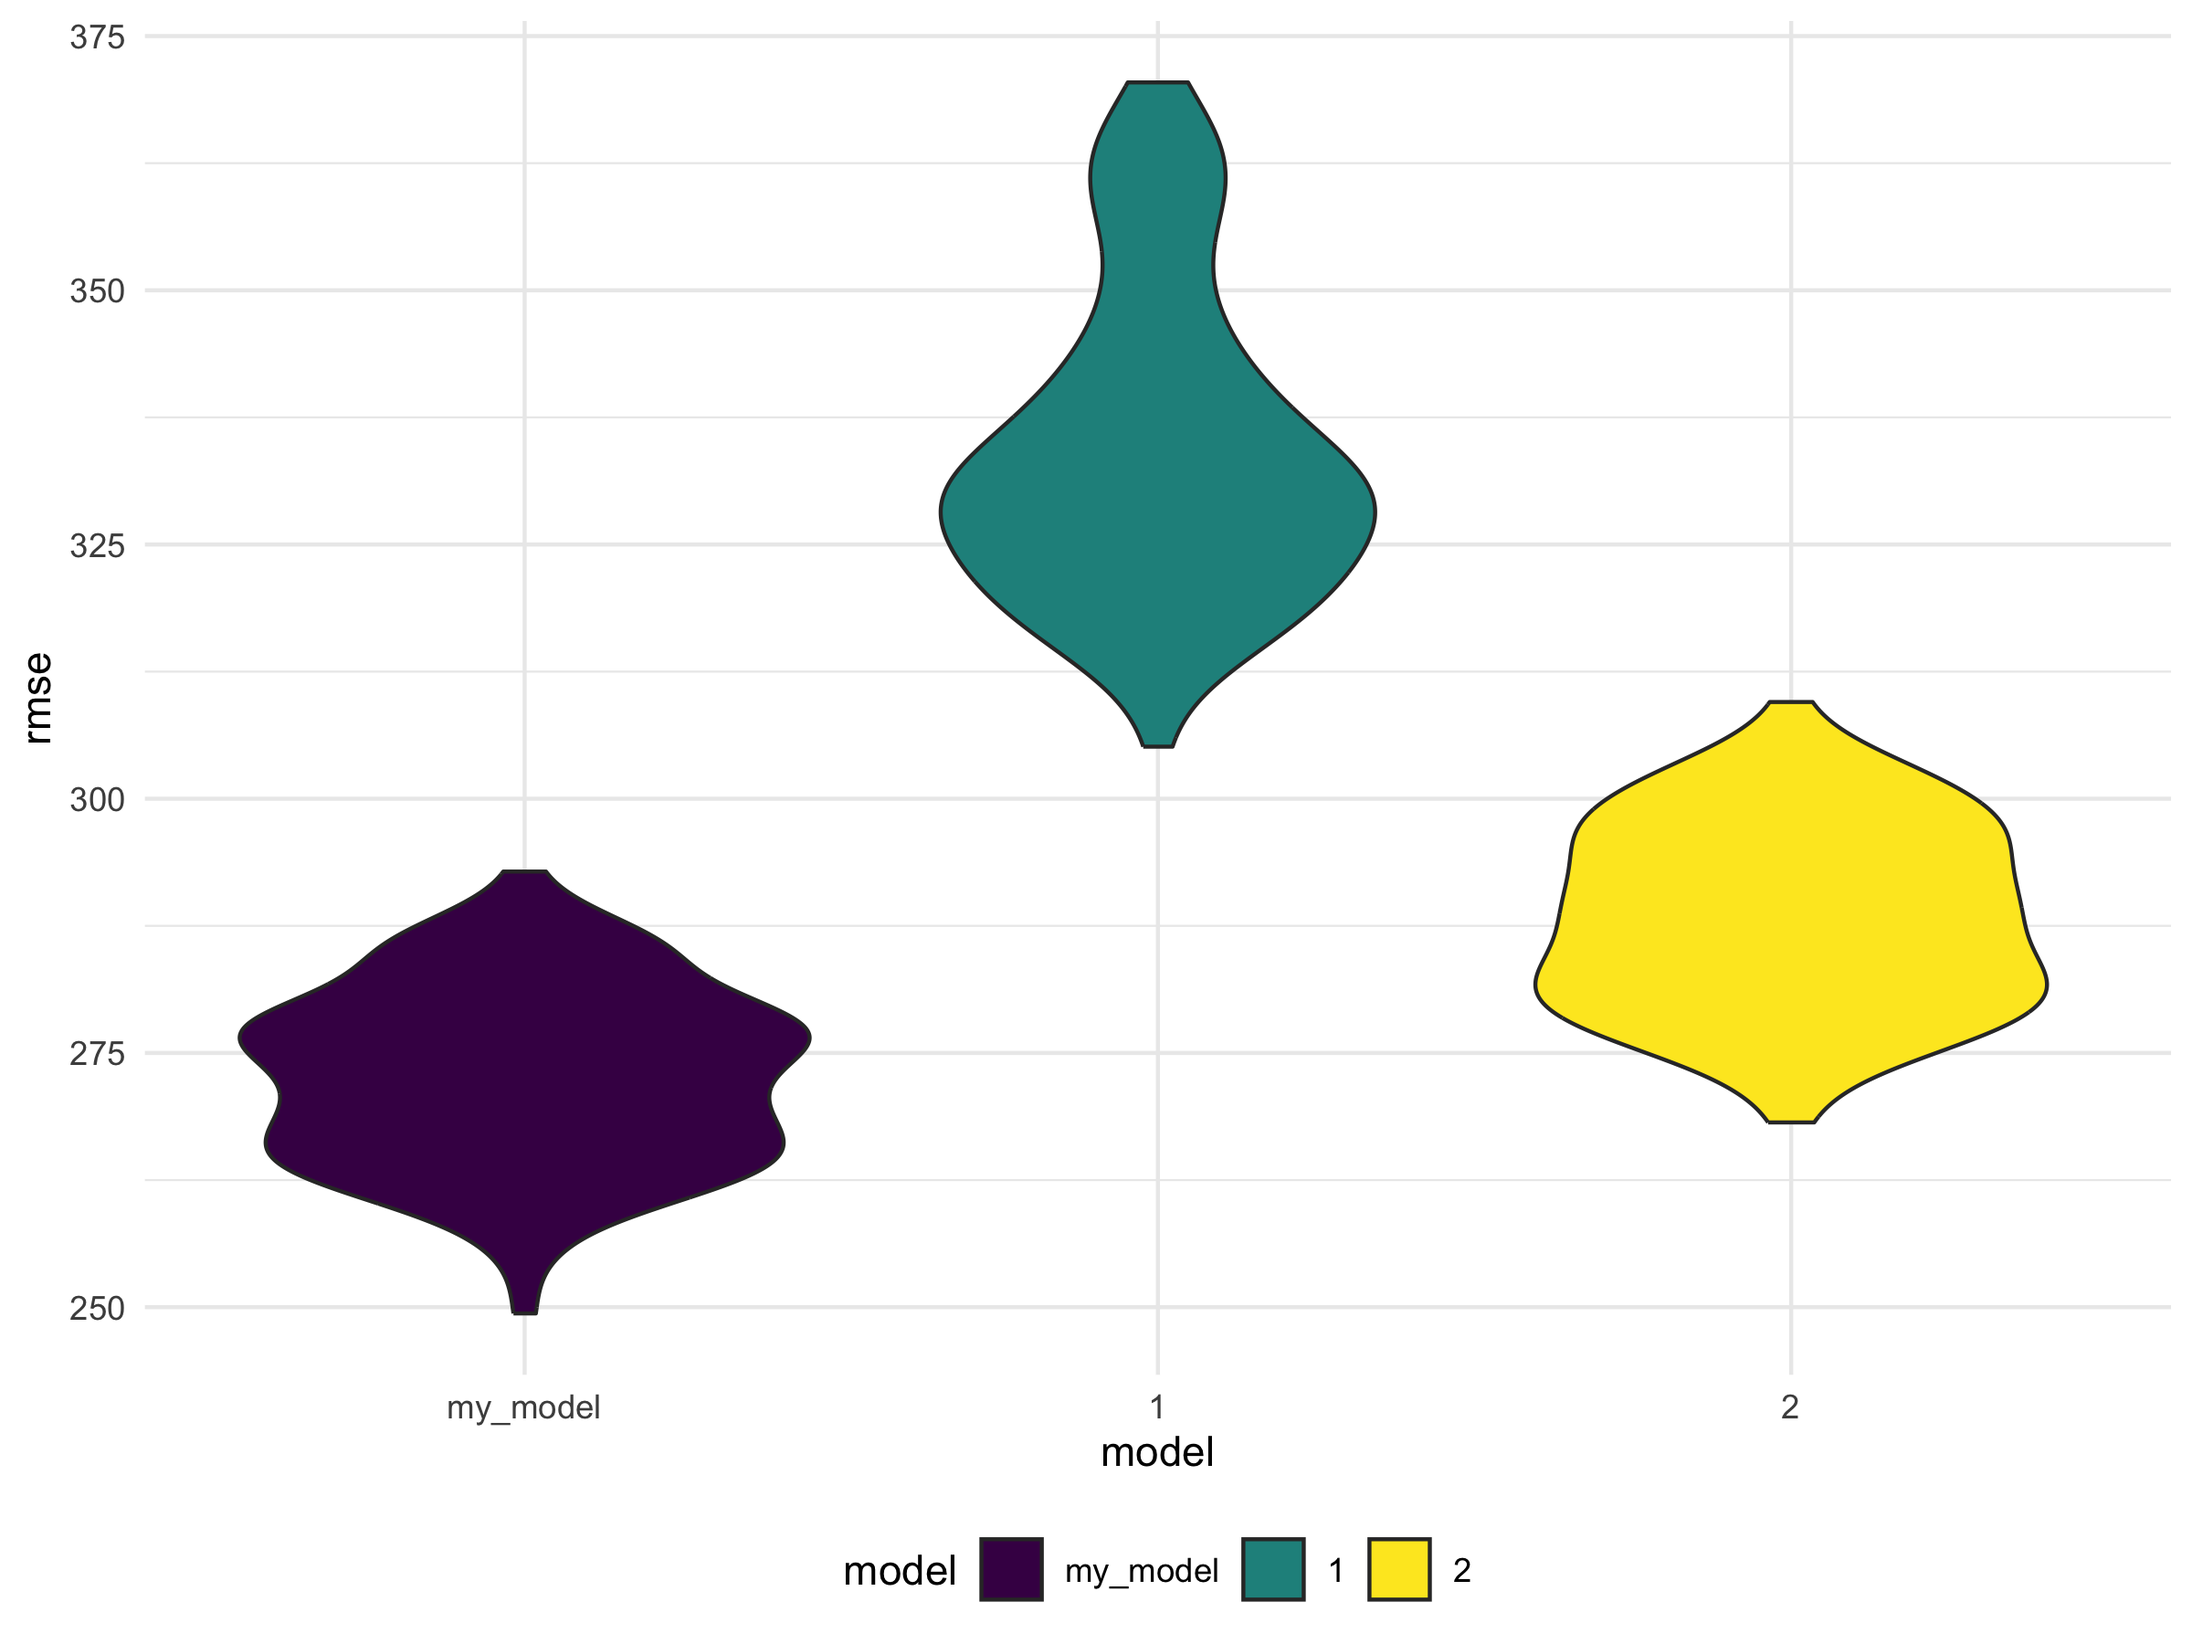
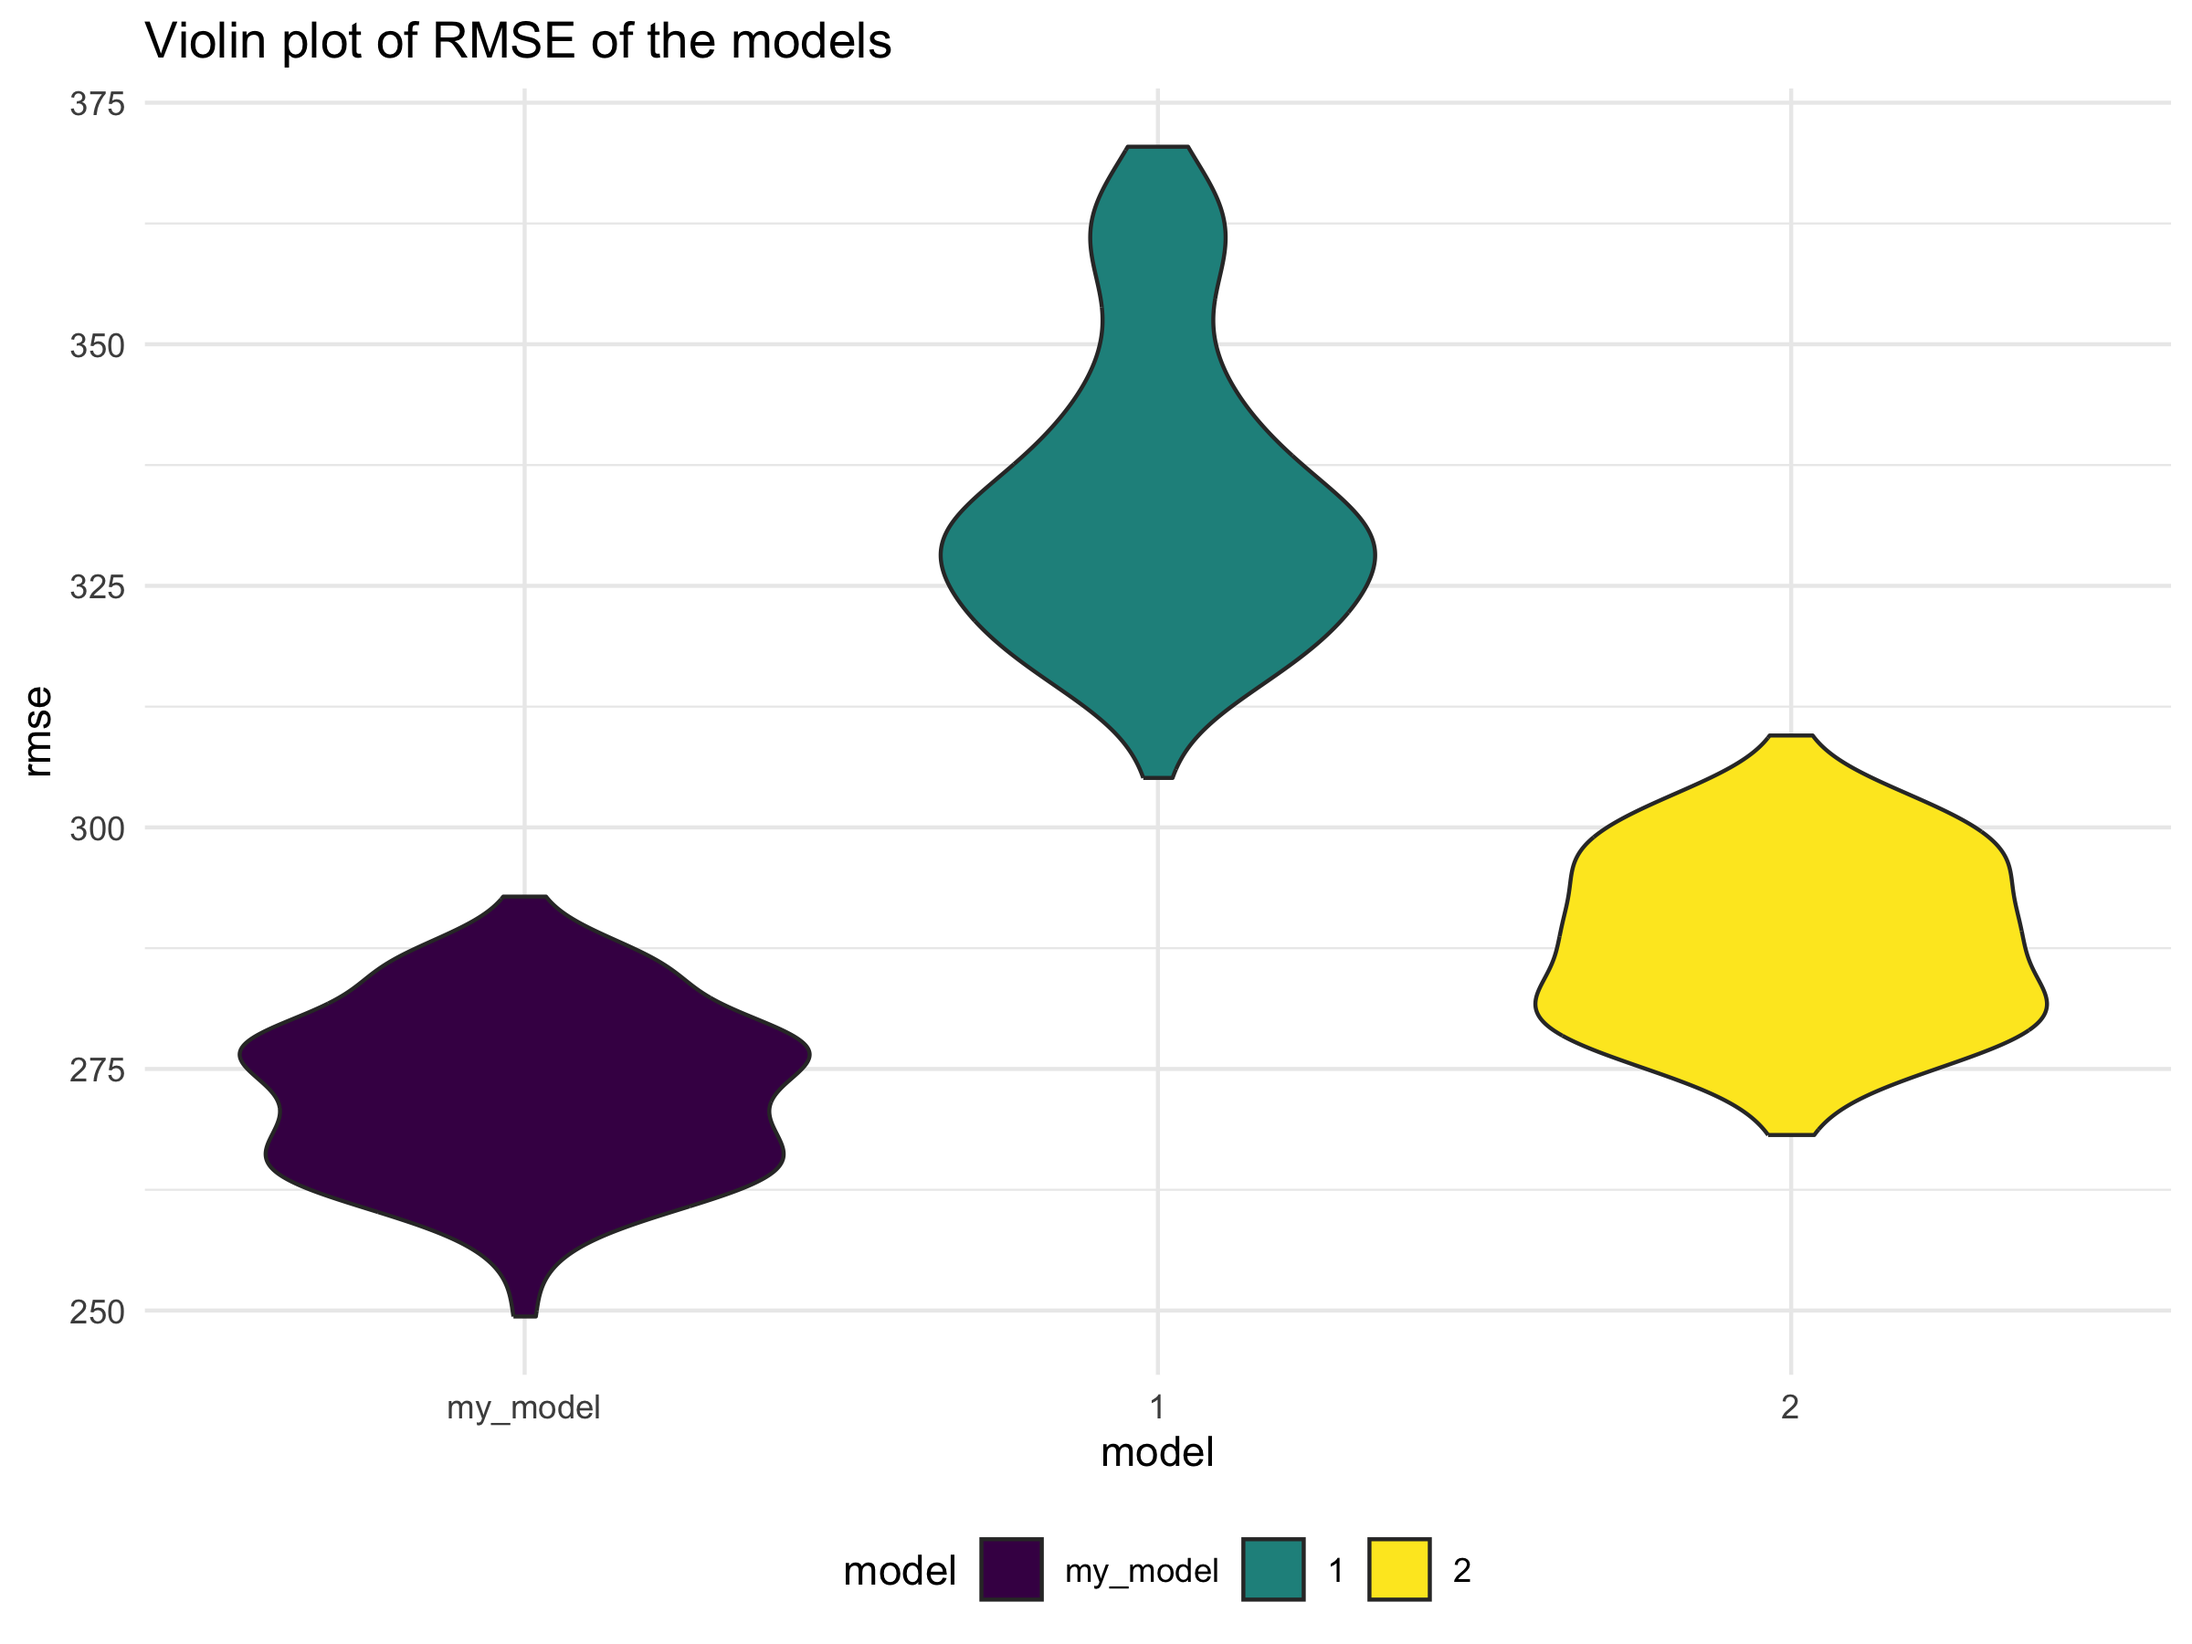
Problem 3 - RMSE

diff --git a/p8105_hw6_yh3676.md b/p8105_hw6_yh3676.md
@@ -240,10 +240,11 @@ Load and clean the data for regression analysis (i.e. convert numeric to
 factor where appropriate, check for missing data, etc.)
 
 ``` r
+# import data 
 birthwt_df = 
   read_csv("data/birthweight.csv") |>
   janitor::clean_names() |>
-#convert some variables' type into factor
+  #convert some variables' type into factor
   mutate(babysex = as.factor(babysex),
          frace = as.factor(frace),
          malform = as.factor(malform),
@@ -252,9 +253,9 @@ birthwt_df =
 ```
 
 ``` r
-#check for missing data
+# check for missing data
 is.na(birthwt_df) |> 
-colSums()
+  colSums() 
 ```
 
     ##      bwt  babysex    bhead  blength    delwt  fincome    frace  gaweeks 
@@ -263,6 +264,10 @@ colSums()
     ##        0        0        0        0        0        0        0        0 
     ##    ppbmi     ppwt   smoken   wtgain 
     ##        0        0        0        0
+
+``` r
+  # there is no missing data
+```
 
 First, establish a linear regression model with birthweight as the
 response variable, and use all the other variables as covariates.
@@ -344,12 +349,23 @@ birthwt_df |>
 
 <img src="p8105_hw6_yh3676_files/figure-gfm/unnamed-chunk-11-1.png" width="90%" />
 
-Then compare my model to two others:
+Then compare `my model` to two others and make this comparison in terms
+of the cross-validated prediction error.
 
-- One using length at birth and gestational age as predictors (main
-  effects only)
-- One using head circumference, length, sex, and all interactions
+- Model 1: use length at birth and gestational age as predictors (main
+  effects only).
+
+- Model 2: use head circumference, length, sex, and all interactions
   (including the three-way interaction) between these.
+
+To be specific, the three models will have the following form as:
+
+- my_model: lm(bwt ~ babysex + bhead + blength + delwt + fincome +
+  gaweeks + mheight + mrace + parity + ppwt + smoken)
+
+- model_1: lm(bwt ~ blength + gaweeks)
+
+- model_2: lm(bwt ~ bhead \* blength \* babysex)
 
 ``` r
 cv_df = 
@@ -397,7 +413,19 @@ outcome |>
     names_prefix = "rmse_") |> 
   mutate(model = fct_inorder(model)) |> 
   ggplot(aes(x = model, y = rmse)) + 
-  geom_violin(aes(fill = model))
+  geom_violin(aes(fill = model)) +
+  labs(
+    title = "Violin plot of RMSE of the models "
+  )
 ```
 
 <img src="p8105_hw6_yh3676_files/figure-gfm/unnamed-chunk-14-1.png" width="90%" />
+
+- This violin plot provides a visual comparison of the RMSE distribution
+  across the three different models that established previously. To
+  determine the superior model, the criterion we adapted here is
+  selecting the model that demonstrates lower RMSE values consistently
+  across different cross-validation folds. According to the graph,
+  `my model` has lower RSME on average compared to `model 1` and
+  `model 2`, suggesting that `my model` has the best predictive accuracy
+  among the three models.
